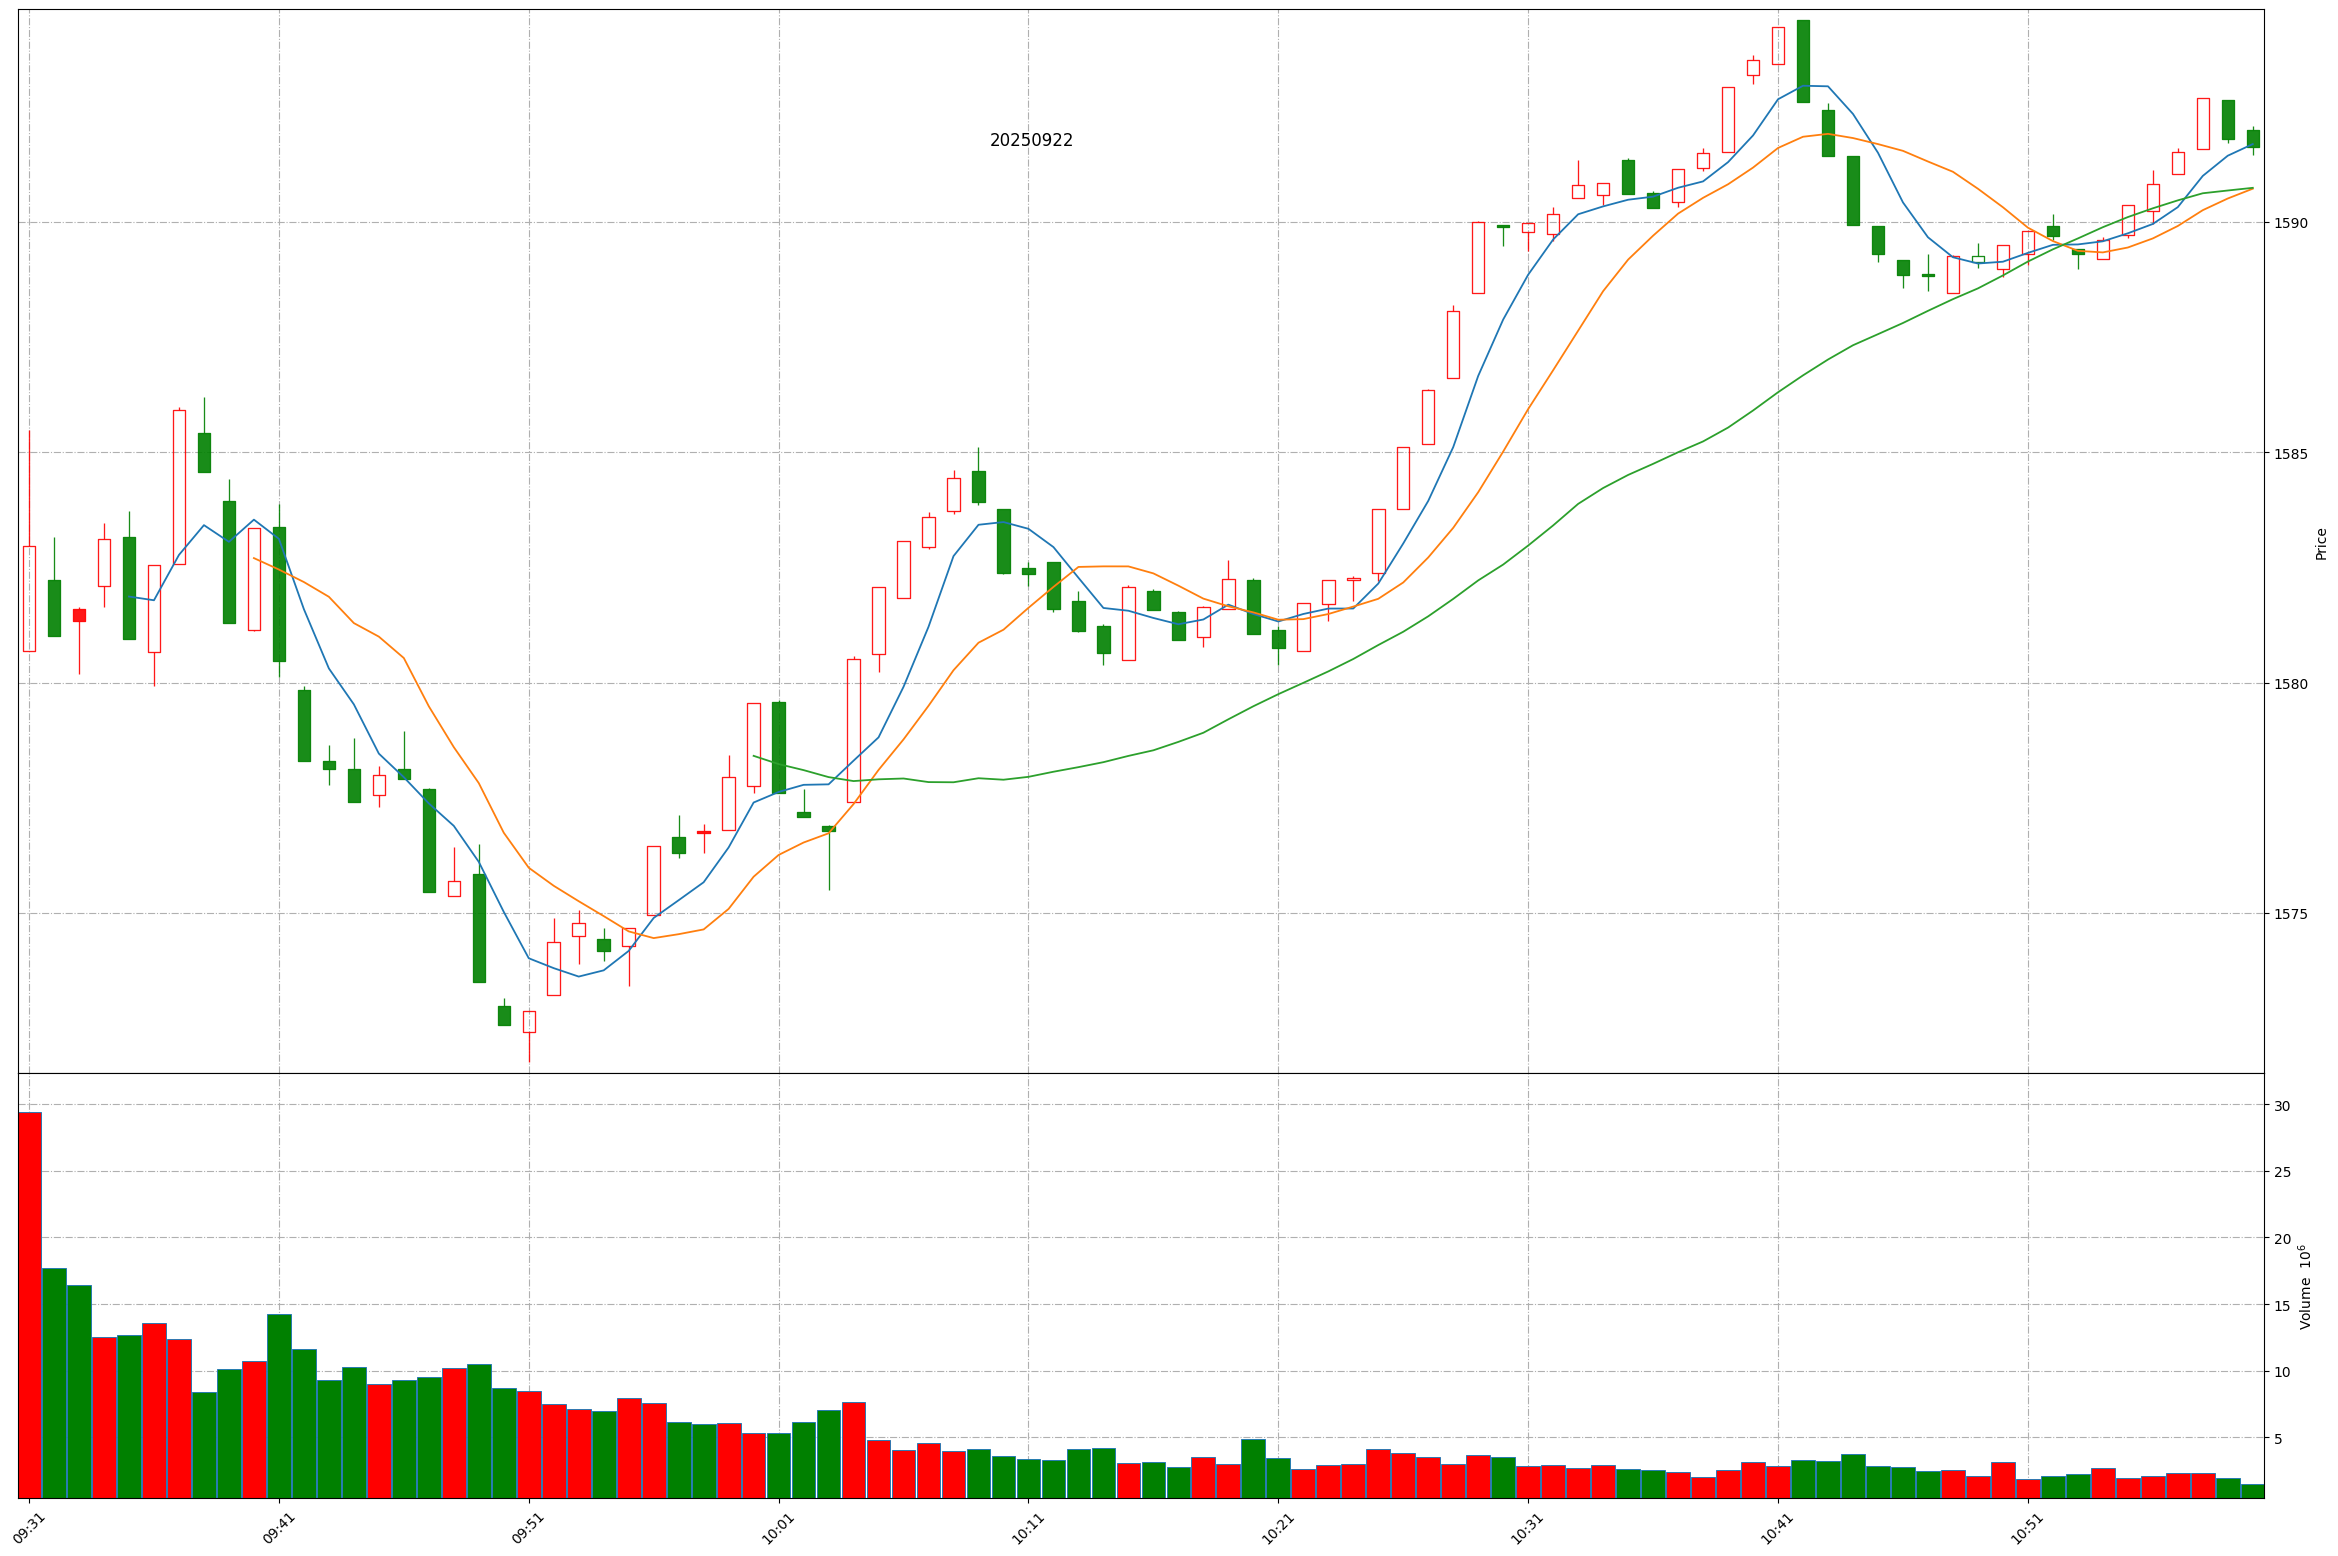
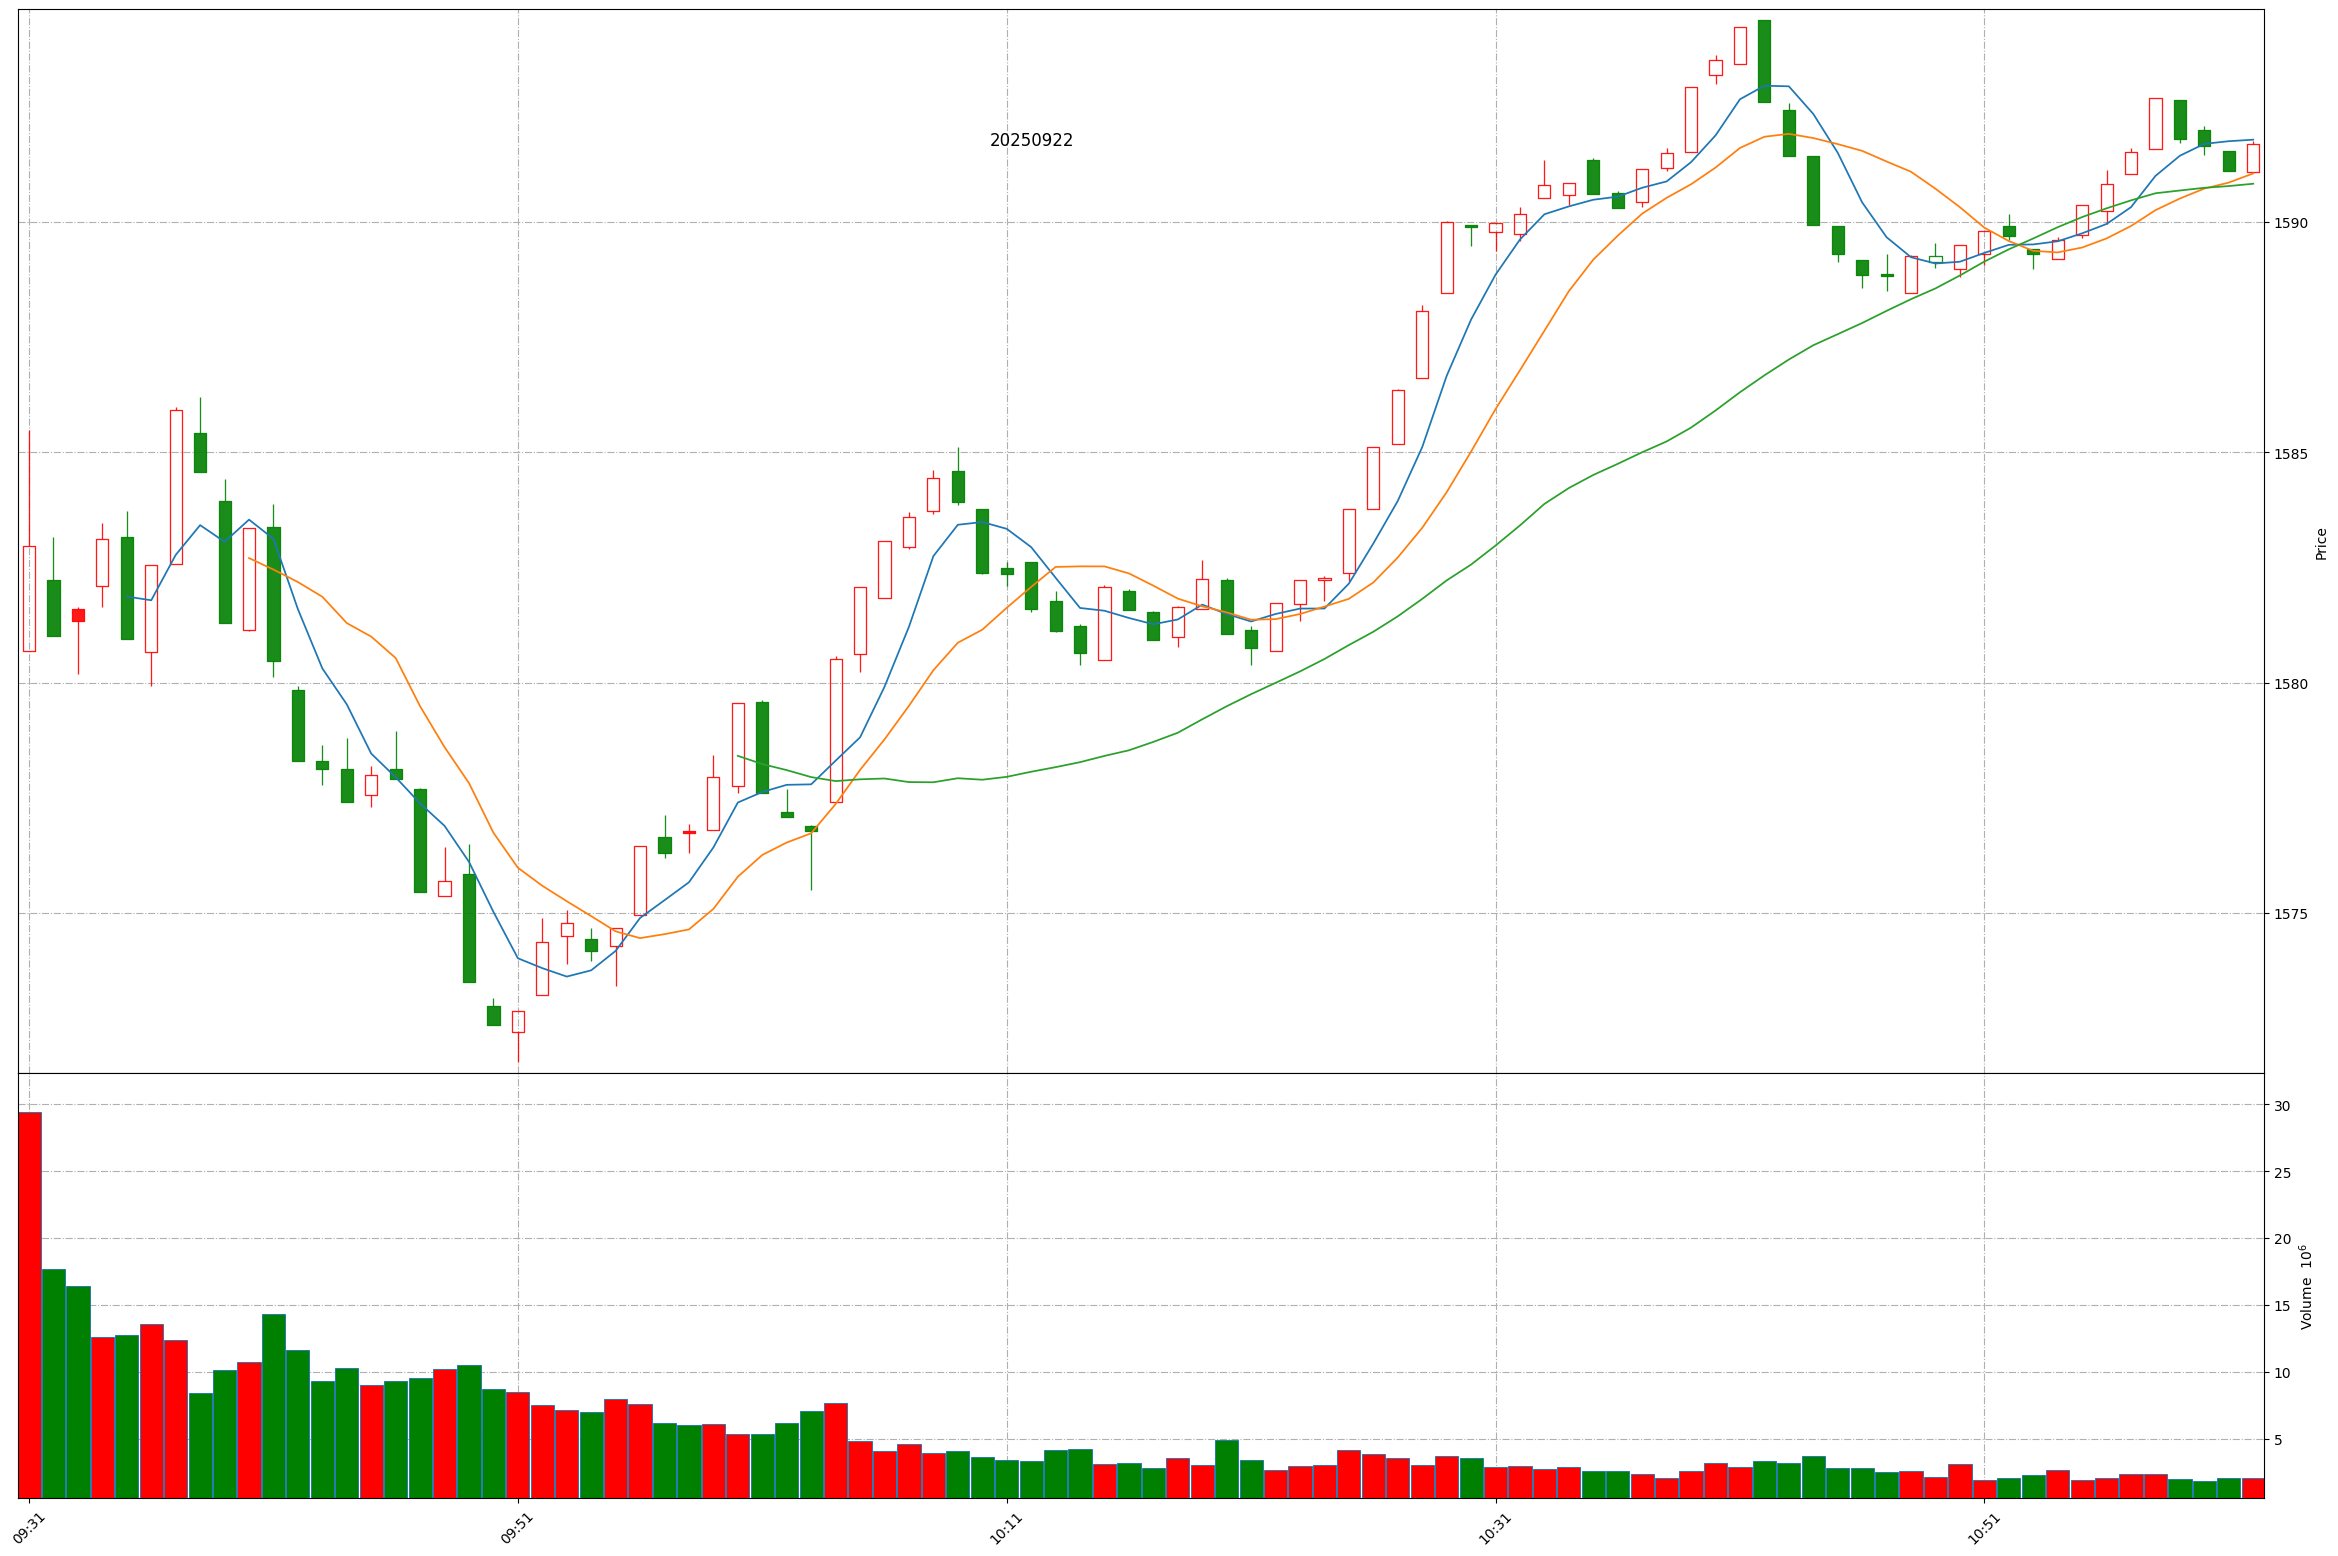
Github action update at 2025-09-22 11:02:20.

diff --git a/README.md b/README.md
@@ -1,11 +1,11 @@
 
 # Daily-A-share-market-quotes 每日 A 股指数（5min 更新）- 20250922
 
-### 上证指数 20250922 10:59
+### 上证指数 20250922 11:2
 ![](./fig/2025/9/20250922-sh000001.png)
 
-### 深证成指 20250922 10:59
+### 深证成指 20250922 11:2
 ![](./fig/2025/9/20250922-sz399001.png)
 
-### 北证50 20250922 10:59
+### 北证50 20250922 11:2
 ![](./fig/2025/9/20250922-bj899050.png)
